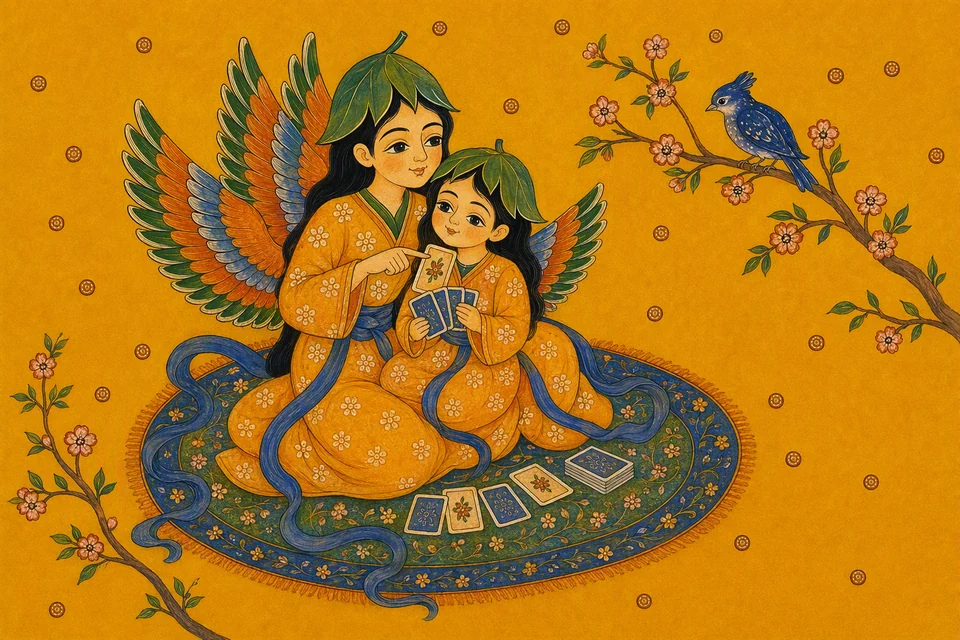
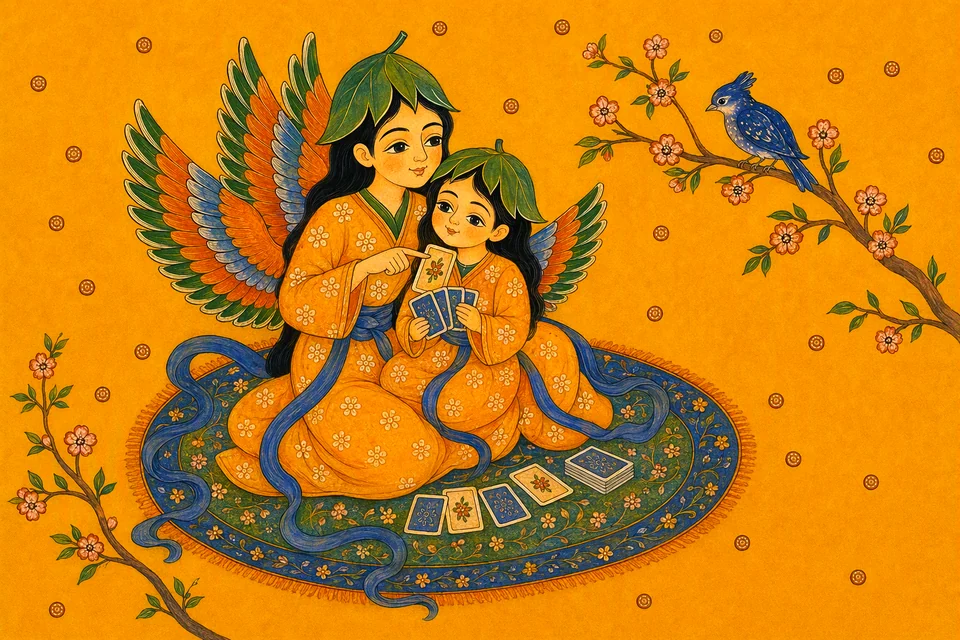
Home cards: brighter, livelier pictures
The pictures looked darker and sadder than the decks' real cards. Solo
and Deck builder are repainted in sunlight (turquoise sky, whitewash, a
red roof, as the Domowiki cards are), every picture is brought to at
least its deck's own brightness with a little more colour, and Coming
soon pictures are hardly greyed (the silver foil says it).

diff --git a/apps/web/src/skin.css b/apps/web/src/skin.css
@@ -1458,7 +1458,6 @@ body.game-screen .story-button[aria-pressed="true"] { box-shadow: 0 0 0 2px var(
 .mc-short { display: none; }
 .mc-foot { display: block; font: 600 3.3cqw/1 Nunito, sans-serif; color: #9a8f7e; padding-bottom: 0.3cqw; }
 /* Coming soon: the picture greys, and says so across it. */
-.mcard.soon .mc-art img { filter: saturate(0.35) brightness(0.9); }
 .mcard .mode-badge { z-index: 2; }
 /* Middle-sized cards (an iPad): the rules text grows so it stays easy to read; the flavour (on a card with no state to
    show) keeps the card from ending in an empty band. */
@@ -1532,7 +1531,7 @@ body.game-screen .story-button[aria-pressed="true"] { box-shadow: 0 0 0 2px var(
 .mc-state.continue-line { color: #9fe0a8; }
 .mc-short { color: #f3e7cf; }
 .mc-foot { color: color-mix(in srgb, var(--foil-line) 70%, transparent); margin-top: auto; }
-.mcard.soon .mc-art img { filter: saturate(0.45) brightness(0.85); }
+.mcard.soon .mc-art img { filter: saturate(0.8); }   /* silver foil and "Coming soon" say it; the picture stays lively */
 @container (max-width: 160px) {
   .mc-text { justify-content: center; padding-top: 0; }
   .mc-face { padding-bottom: 2.2cqw; }
